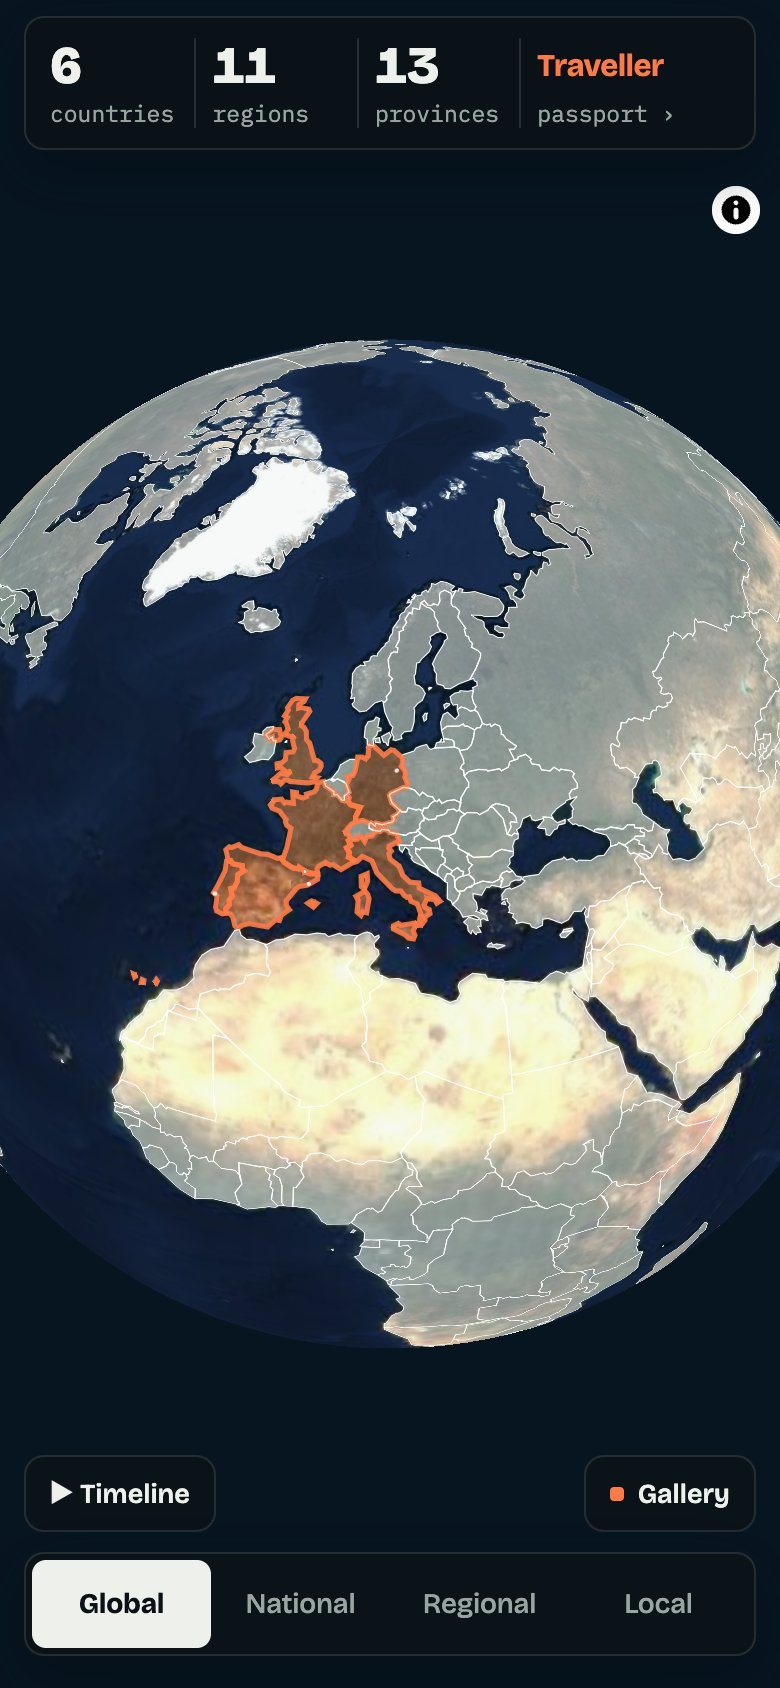
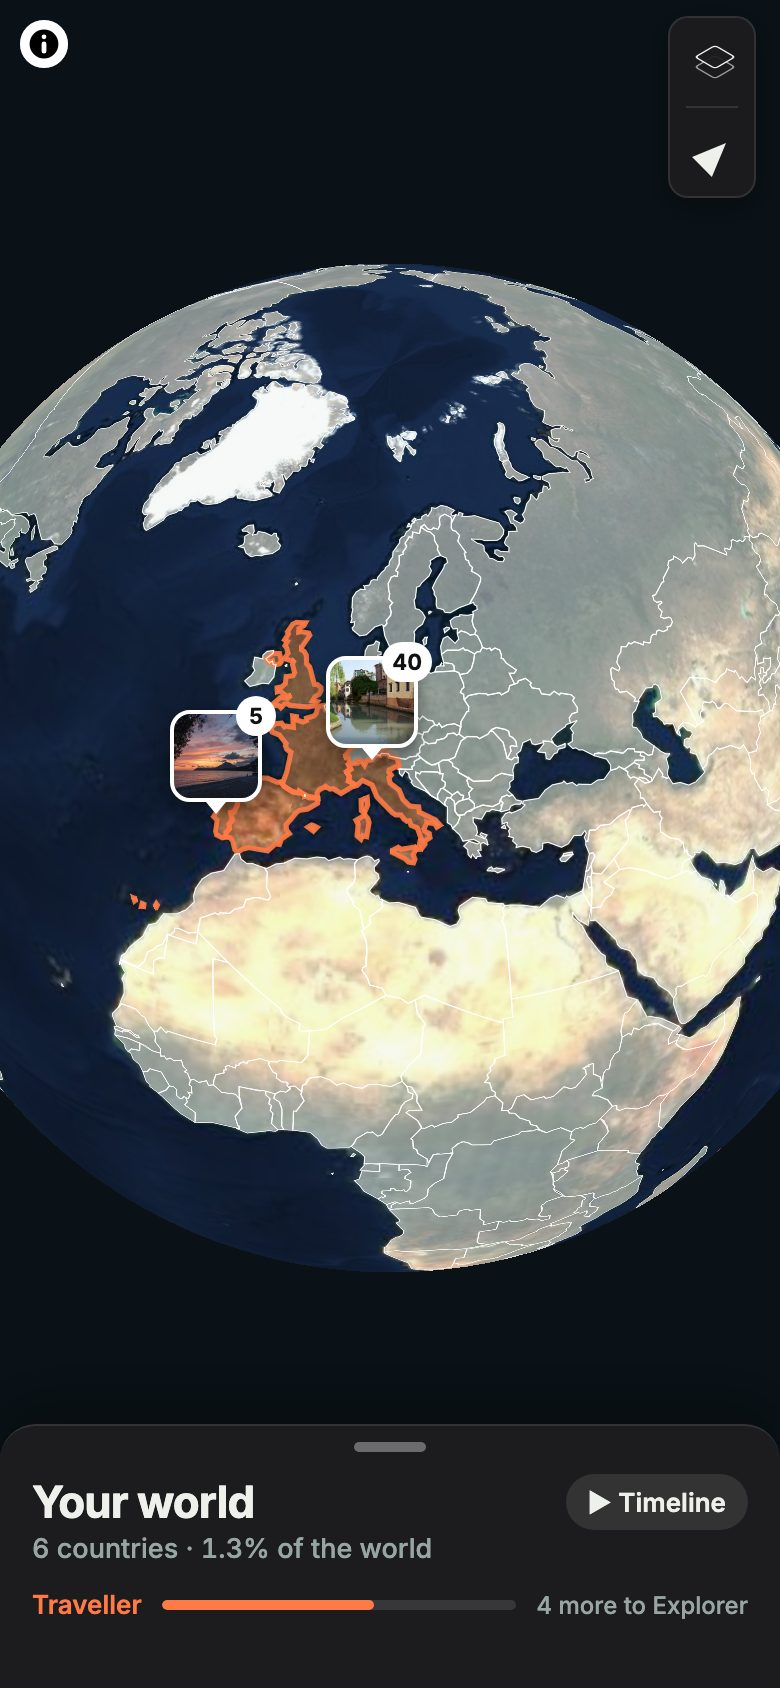
README: GIF and screenshots of the new map

diff --git a/mobile/scripts/readme-media.ts b/mobile/scripts/readme-media.ts
@@ -1,0 +1,137 @@
+// The README's screenshots and GIF, made from the exported web demo in English at 390×844.
+// Run: npm run export:web && npx tsx scripts/readme-media.ts   (writes ../docs/images/)
+import { spawn } from 'node:child_process';
+import { writeFileSync } from 'node:fs';
+import { join } from 'node:path';
+import { chromium, type Page } from '@playwright/test';
+import { GIFEncoder, applyPalette, quantize } from 'gifenc';
+import { PNG } from 'pngjs';
+
+const OUT = join(__dirname, '..', '..', 'docs', 'images');
+const URL = 'http://127.0.0.1:4173/mantide/';
+const GIF_SCALE = 0.75; // 390×844 → 292×633: the GIF stays well under 4 MB
+type MapHandle = { flyTo(o: { center: [number, number]; zoom: number; duration: number }): void; jumpTo(o: { center: [number, number]; zoom: number }): void };
+
+async function waitForServer() {
+  for (let i = 0; i < 50; i++) {
+    try {
+      if ((await fetch(URL)).ok) return;
+    } catch {}
+    await new Promise((r) => setTimeout(r, 200));
+  }
+  throw new Error('the web demo server did not start');
+}
+
+// The sheet's handle dragged to a top edge, as a finger would.
+async function dragSheet(page: Page, top: number, onStep?: () => Promise<void>) {
+  const box = (await page.getByTestId('sheet-handle').boundingBox())!;
+  const x = box.x + box.width / 2;
+  await page.mouse.move(x, box.y + 30);
+  await page.mouse.down();
+  await page.mouse.move(x, box.y + 20, { steps: 2 });
+  const from = box.y + 20;
+  for (let i = 1; i <= 6; i++) {
+    await page.mouse.move(x, from + ((top + 20 - from) * i) / 6, { steps: 3 });
+    await onStep?.();
+  }
+  await page.waitForTimeout(150);
+  await page.mouse.move(x, top + 21);
+  await page.mouse.up();
+  await page.waitForTimeout(900);
+}
+
+async function main() {
+  const server = spawn('npx', ['tsx', join(__dirname, 'serve-web.ts')], { stdio: 'ignore' });
+  try {
+    await waitForServer();
+    const browser = await chromium.launch();
+    const page = await browser.newPage({ viewport: { width: 390, height: 844 }, deviceScaleFactor: 2, locale: 'en-US' });
+    await page.route('**/v1/chat/completions', (route) => route.abort());
+    await page.goto(`${URL}?reset`);
+    await page.getByText('Try with sample photos').click({ timeout: 15_000 });
+    await page.locator('[data-testid="photo-pin"]').first().waitFor();
+    await page.waitForTimeout(4000); // tiles and thumbnails
+
+    const shot = async (name: string) => writeFileSync(join(OUT, name), await page.screenshot({ type: 'jpeg', quality: 82 }));
+
+    // 1. Far out: your world.
+    await shot('1-world.jpg');
+    // 2. Italy, with the photos in view.
+    await page.evaluate(() => (window as unknown as { __mantideMap: MapHandle }).__mantideMap.jumpTo({ center: [12.5, 42.4], zoom: 4.7 }));
+    await page.waitForTimeout(3000);
+    await dragSheet(page, 844 - 388);
+    await page.waitForTimeout(2000);
+    await shot('2-country.jpg');
+    // 3. Veneto: the place sheet, "For you here" first.
+    await page.evaluate(() => (window as unknown as { __mantideMap: MapHandle }).__mantideMap.jumpTo({ center: [12.3, 45.6], zoom: 7 }));
+    await page.waitForTimeout(1500);
+    await dragSheet(page, 844 - 760);
+    await page.waitForTimeout(3000);
+    await shot('3-place.jpg');
+    // 4. The passport.
+    await page.goto(URL);
+    await page.locator('[data-testid="photo-pin"]').first().waitFor();
+    await page.waitForTimeout(2500);
+    await page.getByText('Your world').click();
+    await page.waitForTimeout(1200);
+    await shot('4-passport.jpg');
+
+    // The GIF: from the world to Veneto, a pin's photos, the sheet raised.
+    const small = await browser.newPage({ viewport: { width: 390, height: 844 }, deviceScaleFactor: 1, locale: 'en-US' });
+    await small.route('**/v1/chat/completions', (route) => route.abort());
+    await small.goto(`${URL}?reset`);
+    await small.getByText('Try with sample photos').click({ timeout: 15_000 });
+    await small.locator('[data-testid="photo-pin"]').first().waitFor();
+    await small.waitForTimeout(3500);
+    const frames: { png: Buffer; delay: number }[] = [];
+    const frame = async (delay: number) => frames.push({ png: await small.screenshot(), delay });
+
+    await frame(1400);
+    await small.evaluate(() => (window as unknown as { __mantideMap: MapHandle }).__mantideMap.flyTo({ center: [12.3, 45.6], zoom: 7.2, duration: 3600 }));
+    for (let i = 0; i < 12; i++) {
+      await small.waitForTimeout(260);
+      await frame(160);
+    }
+    await small.waitForTimeout(1500);
+    await frame(1100);
+    await small.locator('[data-testid="photo-pin"]:has(.mt-badge)').first().click();
+    await small.waitForTimeout(1500);
+    await frame(1600);
+    await small.getByRole('button', { name: 'Close the photos' }).click();
+    await small.waitForTimeout(600);
+    await frame(500);
+    await dragSheet(small, 844 - 760, async () => {
+      await frame(110);
+    });
+    await small.waitForTimeout(2500);
+    await frame(2600);
+    while (frames.length < 30) frames.splice(frames.length - 1, 0, { ...frames[frames.length - 1], delay: 120 });
+
+    const gif = GIFEncoder();
+    for (const { png, delay } of frames.slice(0, 30)) {
+      const image = PNG.sync.read(png);
+      const w = Math.round(image.width * GIF_SCALE);
+      const h = Math.round(image.height * GIF_SCALE);
+      const rgba = new Uint8Array(w * h * 4);
+      for (let y = 0; y < h; y++) {
+        for (let x = 0; x < w; x++) {
+          const from = (Math.floor(y / GIF_SCALE) * image.width + Math.floor(x / GIF_SCALE)) * 4;
+          rgba.set(image.data.subarray(from, from + 4), (y * w + x) * 4);
+        }
+      }
+      const palette = quantize(rgba, 256);
+      gif.writeFrame(applyPalette(rgba, palette), w, h, { palette, delay });
+    }
+    gif.finish();
+    writeFileSync(join(OUT, 'demo.gif'), gif.bytes());
+    await browser.close();
+    console.log(`readme media: 4 screenshots and a ${frames.length}-frame GIF in docs/images/`);
+  } finally {
+    server.kill();
+  }
+}
+
+main().catch((e) => {
+  console.error(e);
+  process.exit(1);
+});

diff --git a/README.md b/README.md
@@ -7,11 +7,15 @@
 [![License: Apache-2.0](https://img.shields.io/badge/license-Apache--2.0-blue)](LICENSE)
 [![Winner: Best Open-Source AI Project, Hacktoberfest 2026](https://img.shields.io/badge/🏆_winner-Best_Open--Source_AI_Project_·_Hacktoberfest_2026-ff6b35)](docs/hackathon.md)
 
+<p align="center">
+  <img src="docs/images/demo.gif" width="292" alt="Zooming from the globe to Veneto: visited areas light up, photos sit on the map, the sheet rises to suggestions for you there">
+</p>
+
 <p>
-  <img src="docs/images/1-world.jpg" width="200" alt="The globe with the countries you've visited lit up">
-  <img src="docs/images/2-country.jpg" width="200" alt="Italy's visited regions with photo thumbnails on the map">
-  <img src="docs/images/3-local.jpg" width="200" alt="Around you: distance rings and events matched to your interests">
-  <img src="docs/images/4-passport.jpg" width="200" alt="The travel passport: level, share of the world, continents">
+  <img src="docs/images/1-world.jpg" width="200" alt="Far out: the countries you've visited lit up, and your world in the sheet">
+  <img src="docs/images/2-country.jpg" width="200" alt="Italy's visited regions, with the photos in view in the sheet">
+  <img src="docs/images/3-place.jpg" width="200" alt="Veneto's place sheet: events for you first, each with the reason and one of your photos">
+  <img src="docs/images/4-passport.jpg" width="200" alt="The passport: level, share of the world, regions and what you photograph">
 </p>
 
 Mantide is an open-source Android app for travellers. It reads the date and GPS of every photo in your gallery and lights up the countries, regions and provinces you've been to. **Gemma 4**, Google's open model, looks at what you photograph to learn what you love, and suggests events near you with the reason ("You have 14 photos of architecture"). Gemma runs on hardware you own: your photos never leave it.
@@ -20,11 +24,12 @@ Mantide is an open-source Android app for travellers. It reads the date and GPS 
 
 ## What it does
 
-- **A map of where you've been** on a satellite globe: far out the countries you've visited light up, closer their regions, then provinces. Real regions for every country; tap a place to fly into it.
-- **Your gallery rebuilds your past:** photos appear where you took them, grouped like the iPhone Photos map; tap a group to see them all.
-- **Your photos say what you love:** Gemma 4 labels a sample of your photos with 12 interests; you can remove any of them.
+- **The iPhone Photos map, on Android:** a satellite globe where the countries you've visited light up; zoom in for their regions, then provinces, with your photos on the map in numbered groups. Tap a place to fly into it.
+- **One sheet that follows what you look at:** your world far out, the photos in view as you pull it up, then the place itself: three small numbers and "For you here" first.
+- **Your photos say what you love:** Gemma 4 labels a sample of your photos with 12 interests; you can remove any of them in the passport.
 - **Events for you where you're looking,** each with why it was picked and one of your photos that explains it; tap one to see it on the map.
 - **A timeline** that replays your journeys, and a **passport** with your level, the share of the world you've seen and what's left.
+- **Try it with sample photos** on any phone, without your gallery or Gemma.
 
 In English and Italian, following your phone's language.
 
@@ -67,7 +72,7 @@ The same code runs in a browser, where platform-specific pieces have a `.web.ts(
 | Map, regions, visited areas, timeline, passport | Real |
 | Interests | Real: Gemma 4 E2B labels a sample of your photos on your hardware |
 | Events | **Sample:** 46 invented events around Italy and Europe ([events.json](mobile/src/events/events.json)); real open-data events are next |
-| Demo gallery | **Sample:** 45 open-licensed photos with invented GPS and dates for a fictional traveller ([demo-data/](demo-data/)) |
+| Demo gallery | **Sample:** 45 open-licensed photos with invented GPS and dates for a fictional traveller ([demo-data/](demo-data/)); "Try with sample photos" loads them on a phone, with Gemma's prepared answers |
 | Web demo | Gemma can't run for a visitor: it shows the answers Gemma gave earlier on the demo photos, and says so |
 
 ## Run it
@@ -92,9 +97,9 @@ On Android, with an emulator or a phone: [docs/android-setup.md](docs/android-se
 
 **Verified in CI:**
 
-- **Every push** ([ci.yml](.github/workflows/ci.yml)): typecheck, unit tests, and the web demo end to end.
+- **Every push** ([ci.yml](.github/workflows/ci.yml)): typecheck, unit tests, and the web demo end to end: the sheet at each height, a pin's photos, the place sheet, the sample photos, the timeline, the passport, without the gallery and without Gemma.
 - **Every push to `main`** ([android.yml](.github/workflows/android.yml)): the Android release APK is built and run on an emulator. The run checks:
-  - the welcome screen;
+  - the welcome screen, and trying the sample photos;
   - the map and its sheet without the gallery, down to the offer to connect it;
   - reading the 45 demo photos from the gallery, down to "6 countries" and the place sheet's suggestions from Gemma's earlier answers;
   - Android's back button, one step at a time: the photo, the grid, the sheet, then out of the app.
@@ -106,7 +111,6 @@ On Android, with an emulator or a phone: [docs/android-setup.md](docs/android-se
 
 **Next** ([design](docs/superpowers/specs/2026-11-10-mantide-v1-design.md)):
 
-- A redesign around the iPhone Photos map, with one bottom sheet that follows what you look at.
 - Real events from open data, plus places from OpenStreetMap.
 - Gemma 4 on the phone itself, with LiteRT-LM, on phones with 8 GB of RAM.
 - An APK in Releases.

diff --git a/mobile/AGENTS.md b/mobile/AGENTS.md
@@ -16,6 +16,7 @@ npm run typecheck            # TypeScript
 npm test                     # unit tests and checks in scripts/ (run with tsx, outside the app's typecheck)
 npm run export:web           # the web demo, built for GitHub Pages under /mantide/
 npm run e2e                  # Playwright test of that build
+npx tsx scripts/readme-media.ts  # the README's screenshots and GIF, from that build
 ```
 
 ## Layout
@@ -30,10 +31,10 @@ npm run e2e                  # Playwright test of that build
 | `src/ai/` | Gemma client (`gemma.ts`), the parser of its answers (`parse.ts`), the 12 interests |
 | `src/events/` | Sample events and the recommender |
 | `src/screens/` | Welcome, map buttons, the sheet's contents (your world, photos in view, the place sheet), photo grid, photo viewer, passport, timeline |
-| `src/ui/` | The bottom sheet (`Sheet.tsx`) and its physics (`detents.ts`) |
+| `src/ui/` | The bottom sheet (`Sheet.tsx`) and its physics (`detents.ts`); `photoSource()` for every photo `<Image>` |
 | `src/stats/` | The passport's numbers |
-| `src/state/` | Visited places |
-| `src/demo/demo.json` | Demo fallbacks, generated by `scripts/build-demo.ts`: don't edit by hand |
+| `src/state/` | Visited places and what marked them (`marks.ts`, pure; `visited.ts` keeps them on the device) |
+| `src/demo/` | The sample gallery (`sample.ts`) and Gemma's prepared answers on it (`demo.json`, generated by `scripts/build-demo.ts`: don't edit by hand) |
 | `e2e/`, `.maestro/` | End-to-end tests: the web demo (Playwright) and the release APK on an emulator (Maestro, in CI) |
 
 ## Browser version

diff --git a/CHANGELOG.md b/CHANGELOG.md
@@ -2,6 +2,7 @@
 
 ## Unreleased
 
+- README: a GIF and new screenshots of the redesigned map, made by `mobile/scripts/readme-media.ts` from the web demo; "What it does" and the verified list describe the new screen.
 - Android: the sample photos show (Wikimedia refuses Android's generic image loader; the app now names itself when it asks for them).
 - The timeline and the passport in the new design: the timeline takes the sheet's place while it plays, the passport is a full-height sheet with grouped cards, your interests and the gallery choice at the bottom.
 - CI keeps running the web tests when Ubuntu's package mirrors are unreachable.
